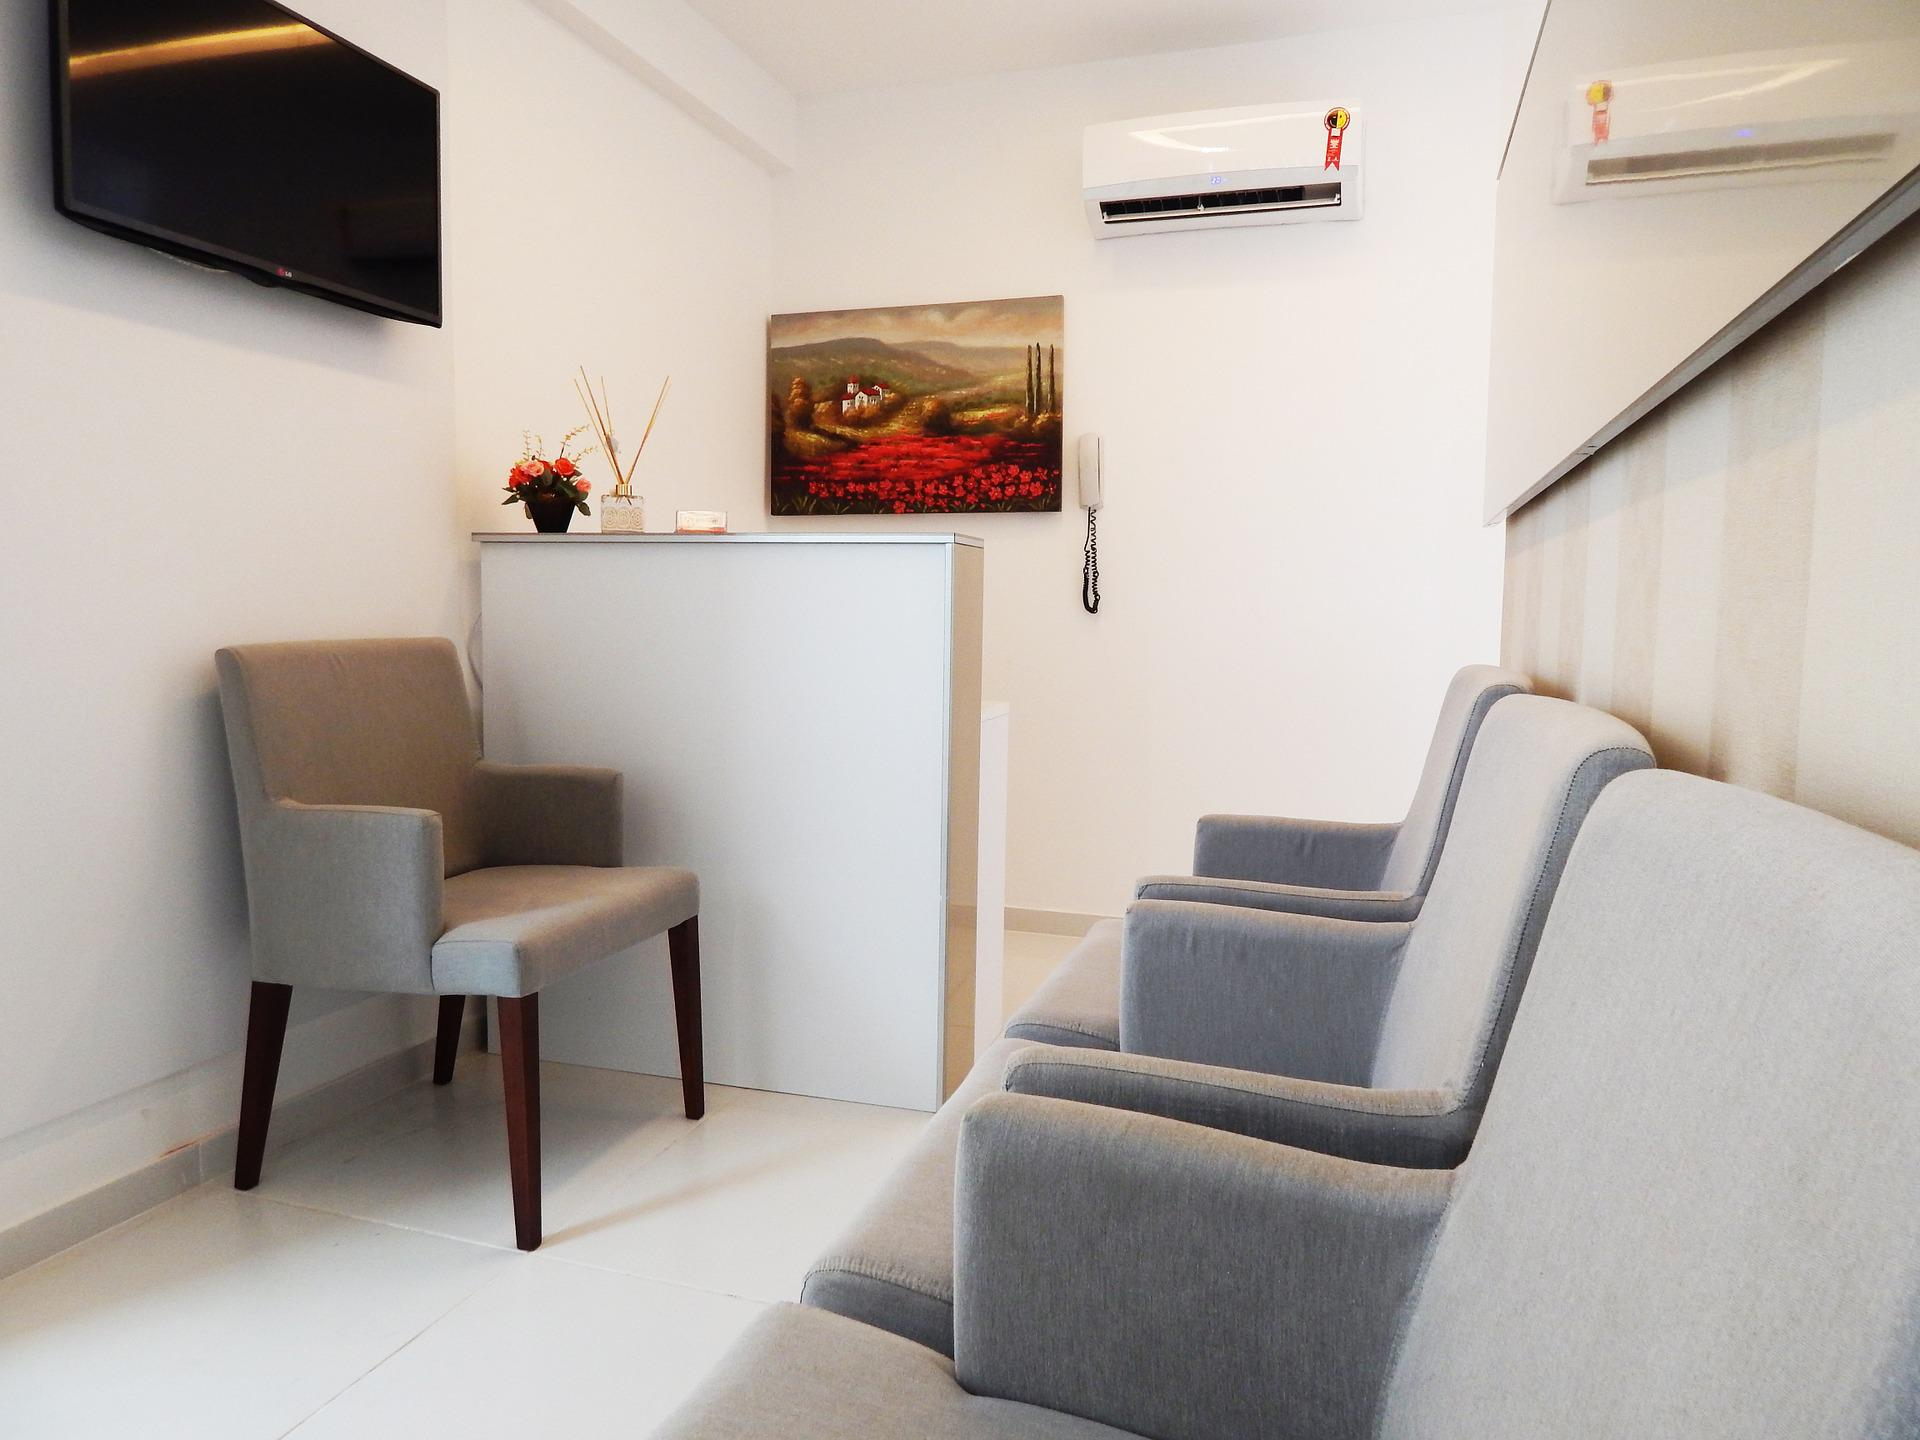
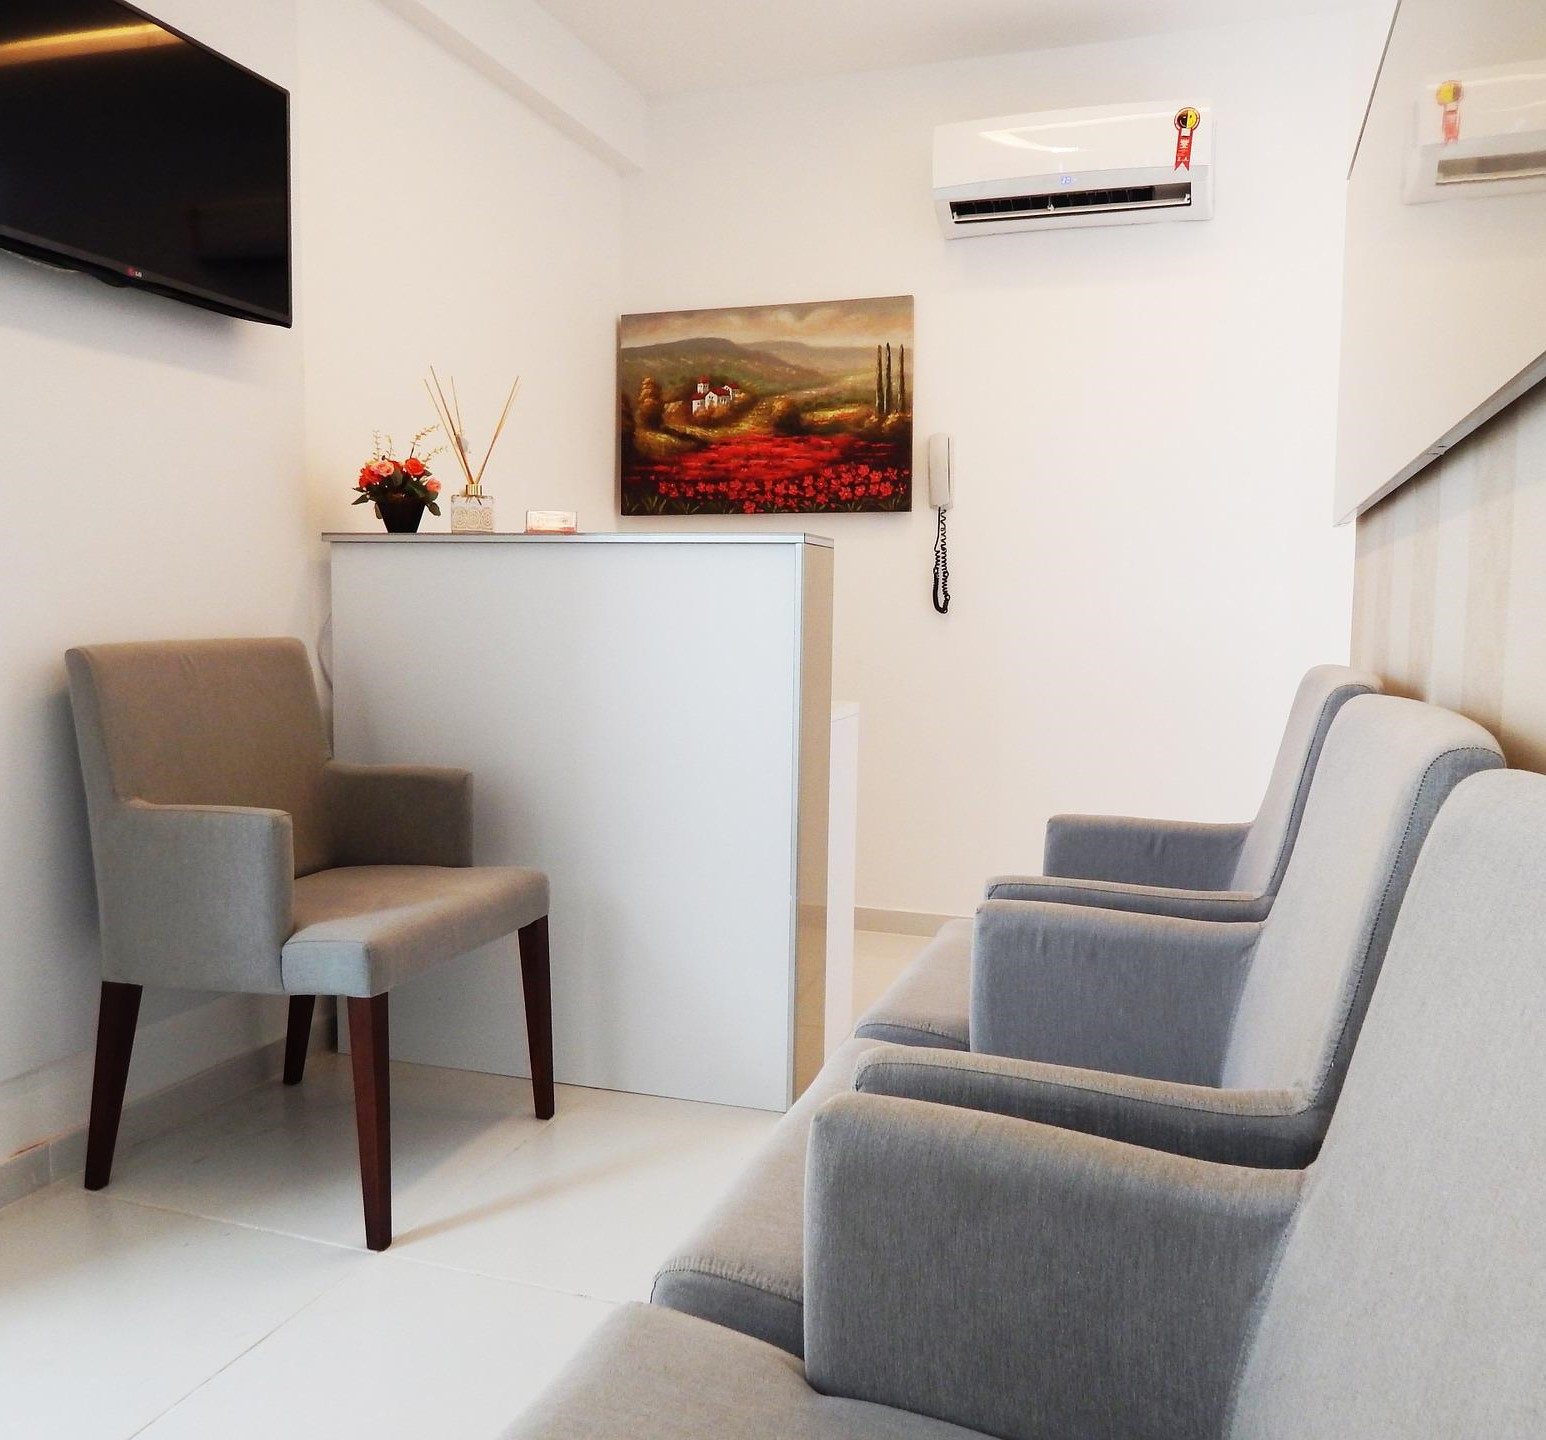
a clinica

diff --git a/index.html b/index.html
@@ -5,6 +5,7 @@
     <meta http-equiv="X-UA-Compatible" content="IE=edge">
     <meta name="viewport" content="width=device-width, initial-scale=1.0">
     <link rel="stylesheet" href="css/estilo.css">
+    <link rel="shortcut icon" href="favicon.ico" type="image/x-icon">
     <title>Dental Clinic</title>
 </head>
 <body>
@@ -56,14 +57,14 @@
             <article class="especialidade__detalhes">
                 <div class="circulo">
                     <div class="imagem">
-                        <img src="img/suspensorios.png" alt="aparelho">
+                        <img src="img/implante-dentario.png" alt="aparelho">
                     </div>
                 </div>
                 <h2>IMPLANTES DENTÁRIOS</h2><small>Lorem ipsum dolor sit amet consectetur adipisicing elit. Corrupti, facere tempore! Rerum delectus illum, nihil tempora laborum odit minima eius.</small></article>
             <article class="especialidade__detalhes">
                 <div class="circulo">
                     <div class="imagem">
-                        <img src="img/suspensorios.png" alt="aparelho">
+                        <img src="img/root-canal.png" alt="aparelho">
                     </div>
                 </div>
                 <h2>TRATAMENTO DE CANAL</h2><small>Lorem ipsum dolor sit amet consectetur adipisicing elit. Corrupti, facere tempore! Rerum delectus illum, nihil tempora laborum odit minima eius.</small></article>
@@ -100,12 +101,26 @@
 
     <!-- Servicos -->
     <section id="clinica">
-        
+        <section class="img__left">
+            <img src="img/espera.jpg" alt="sala de espera">
+        </section>
+        <section class="content__right">
+            <div class="content__clinica"><h2>TRATAMENTO MULTIDISCIPLINAR</h2><p>Lorem ipsum, dolor sit amet consectetur adipisicing elit. Reiciendis amet aut eum at fuga adipisci?</p></div>
+            <div class="content__clinica"><h2>ATENDIMENTO A PNE</h2><p>Lorem ipsum, dolor sit amet consectetur adipisicing elit. Reiciendis amet aut eum at fuga adipisci?</p>
+            </div>
+            <div class="content__clinica"><h2>LABORATÓRIO PRÓPRIO</h2><p>Lorem ipsum, dolor sit amet consectetur adipisicing elit. Reiciendis amet aut eum at fuga adipisci?</p>
+            </div>
+            <div class="content__clinica"><h2>ODONTOLOGIA DIGITAL</h2><p>Lorem ipsum, dolor sit amet consectetur adipisicing elit. Reiciendis amet aut eum at fuga adipisci?</p>
+            </div>
+        </section>
         
     </section>
     <!-- Contato -->
     <section id="contato">
-        
+        <div class="container__contato contato__black"><img src="img/Logo-clinica.png" alt=""><p>Lorem ipsum dolor sit amet consectetur adipisicing elit. Quaerat animi repellat et cum eligendi exercitationem rerum, voluptatibus harum dicta vitae!</p></div>
+        <div class="container__contato contato__escuro">ola</div>
+        <div class="container__contato contato__azul">ola</div>
+        <div class="container__contato contato__claro">ola</div>
     </section>
 </body>
 </html>

diff --git a/css/estilo.css b/css/estilo.css
@@ -185,6 +185,7 @@ article.especialidade__detalhes{
     top: 1rem;
     width: 50px;
     height: 50px;
+    filter: blur(0.5px);
 }
 
 /* =========== MEDIA QUERRY (MEDIUM DEVICES) ====================== */
@@ -262,9 +263,77 @@ article.especialidade__detalhes{
     color: white;
 }
 
+#clinica{
+    display: flex;
+}
 
 
 
+.img__left img {
+    width: 50vw;
+    height: 120vh;
+    margin: 0;
+}
+
+.content__right{
+    display: grid;
+    grid-template-columns: 1fr 1fr;
+    grid-template-rows: 1fr 1fr;
+}
+
+.content__clinica{
+    width: 25vw;
+    text-align: center;
+    padding: 0 2rem;
+    
+}
+
+.content__clinica > h2{
+    padding-top: 2rem;
+    font-size: 1.4rem;
+    color: rgba(10, 10, 10, 0.811);
+    width:15vw;
+    text-align: center;
+    margin: auto;
+    
+}
+
+.content__clinica > p{
+    color: rgba(0, 0, 0, 0.623);
+    padding: 20px 0;
+    font-size: 0.85em;
+}
+
+.content__clinica:hover h2{
+    color: rgb(26, 129, 177);
+}
 
 /* Contato */
+
+#contato{
+    display: grid;
+    grid-template-columns: 1fr 1fr 1fr 1fr;
+    grid-template-rows: 1fr;
+    color: white;
+}
+
+.contato__black{
+    background-color: rgba(0, 0, 0, 0.623);
+}
+
+.contato__black img{
+    width: 40%;
+}
+
+.contato__escuro{
+    background-color: rgb(1, 1, 245);
+}
+
+.contato__azul{
+    background-color: rgb(0, 85, 255);
+}
+
+.contato__claro{
+    background-color: rgb(0, 149, 255);
+}
 
